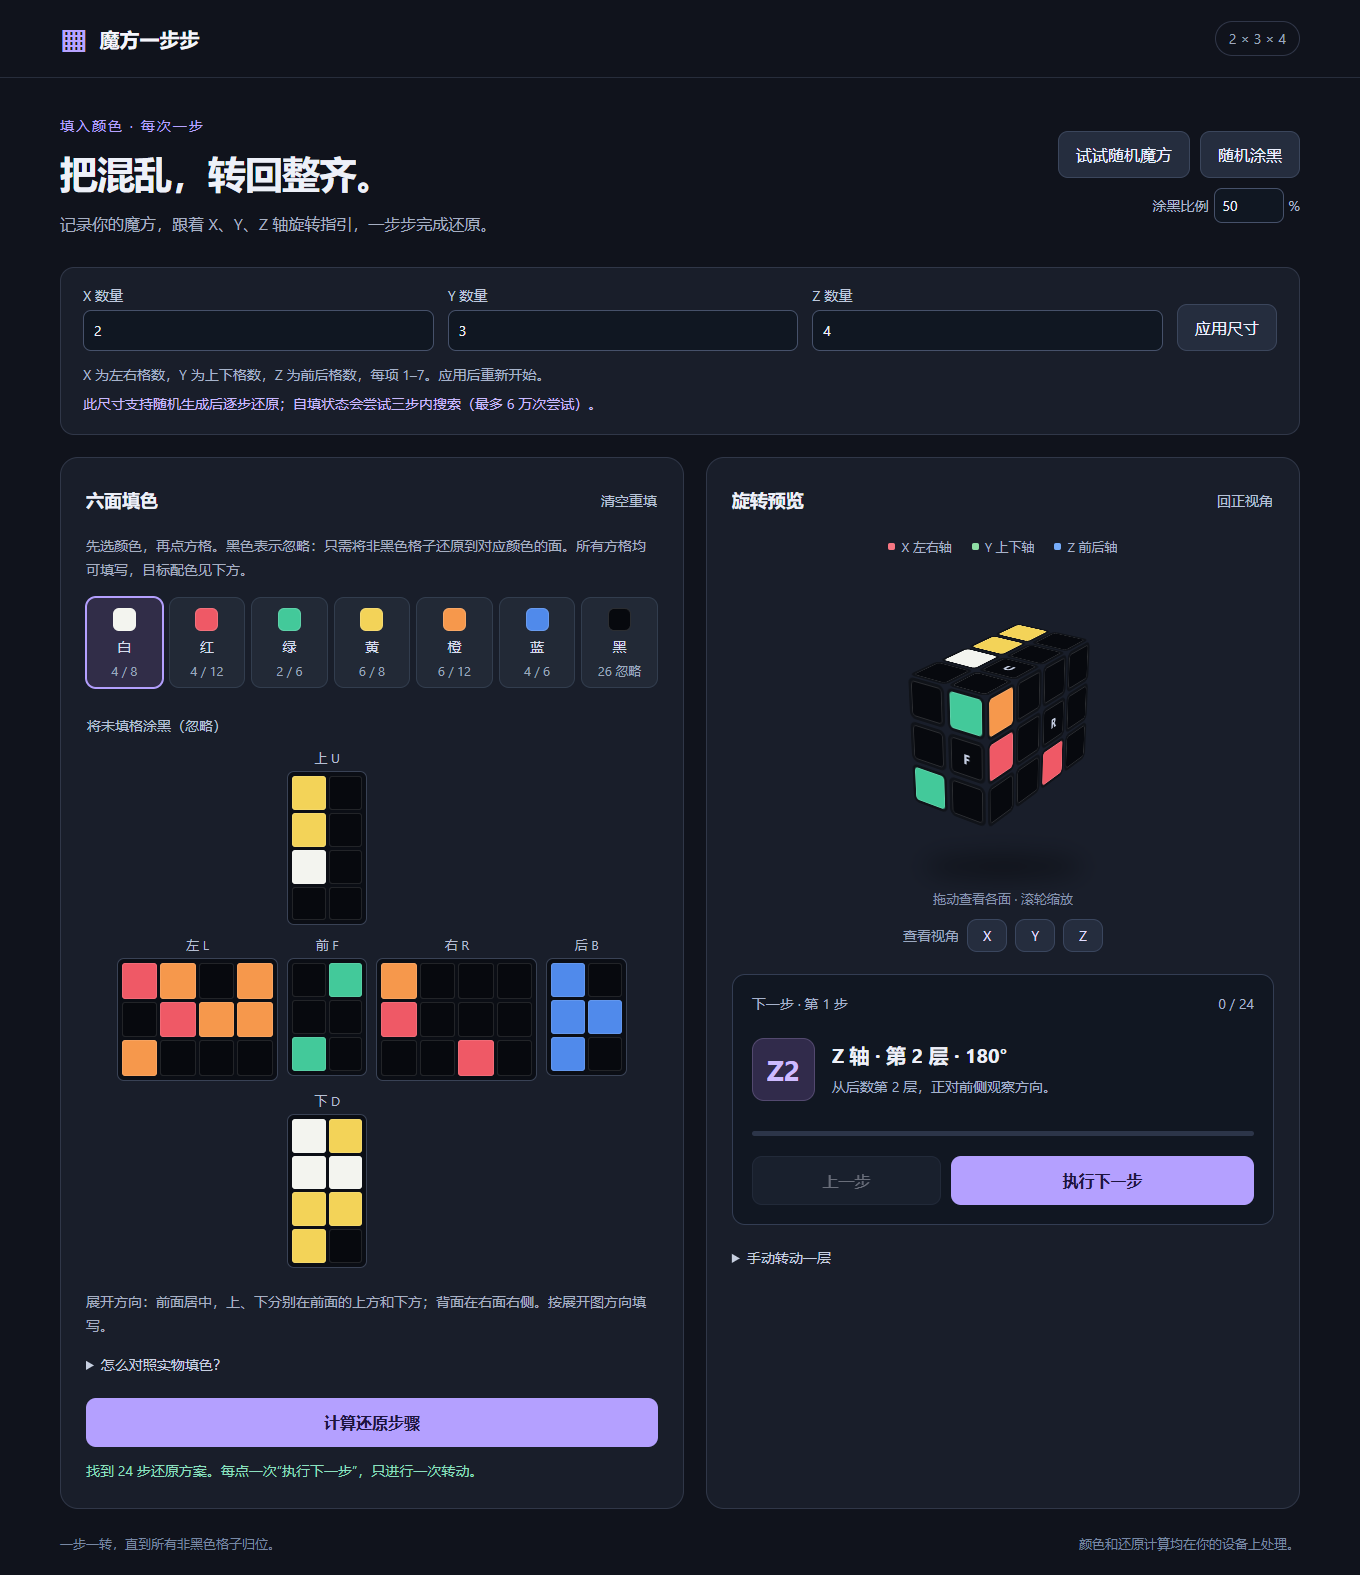
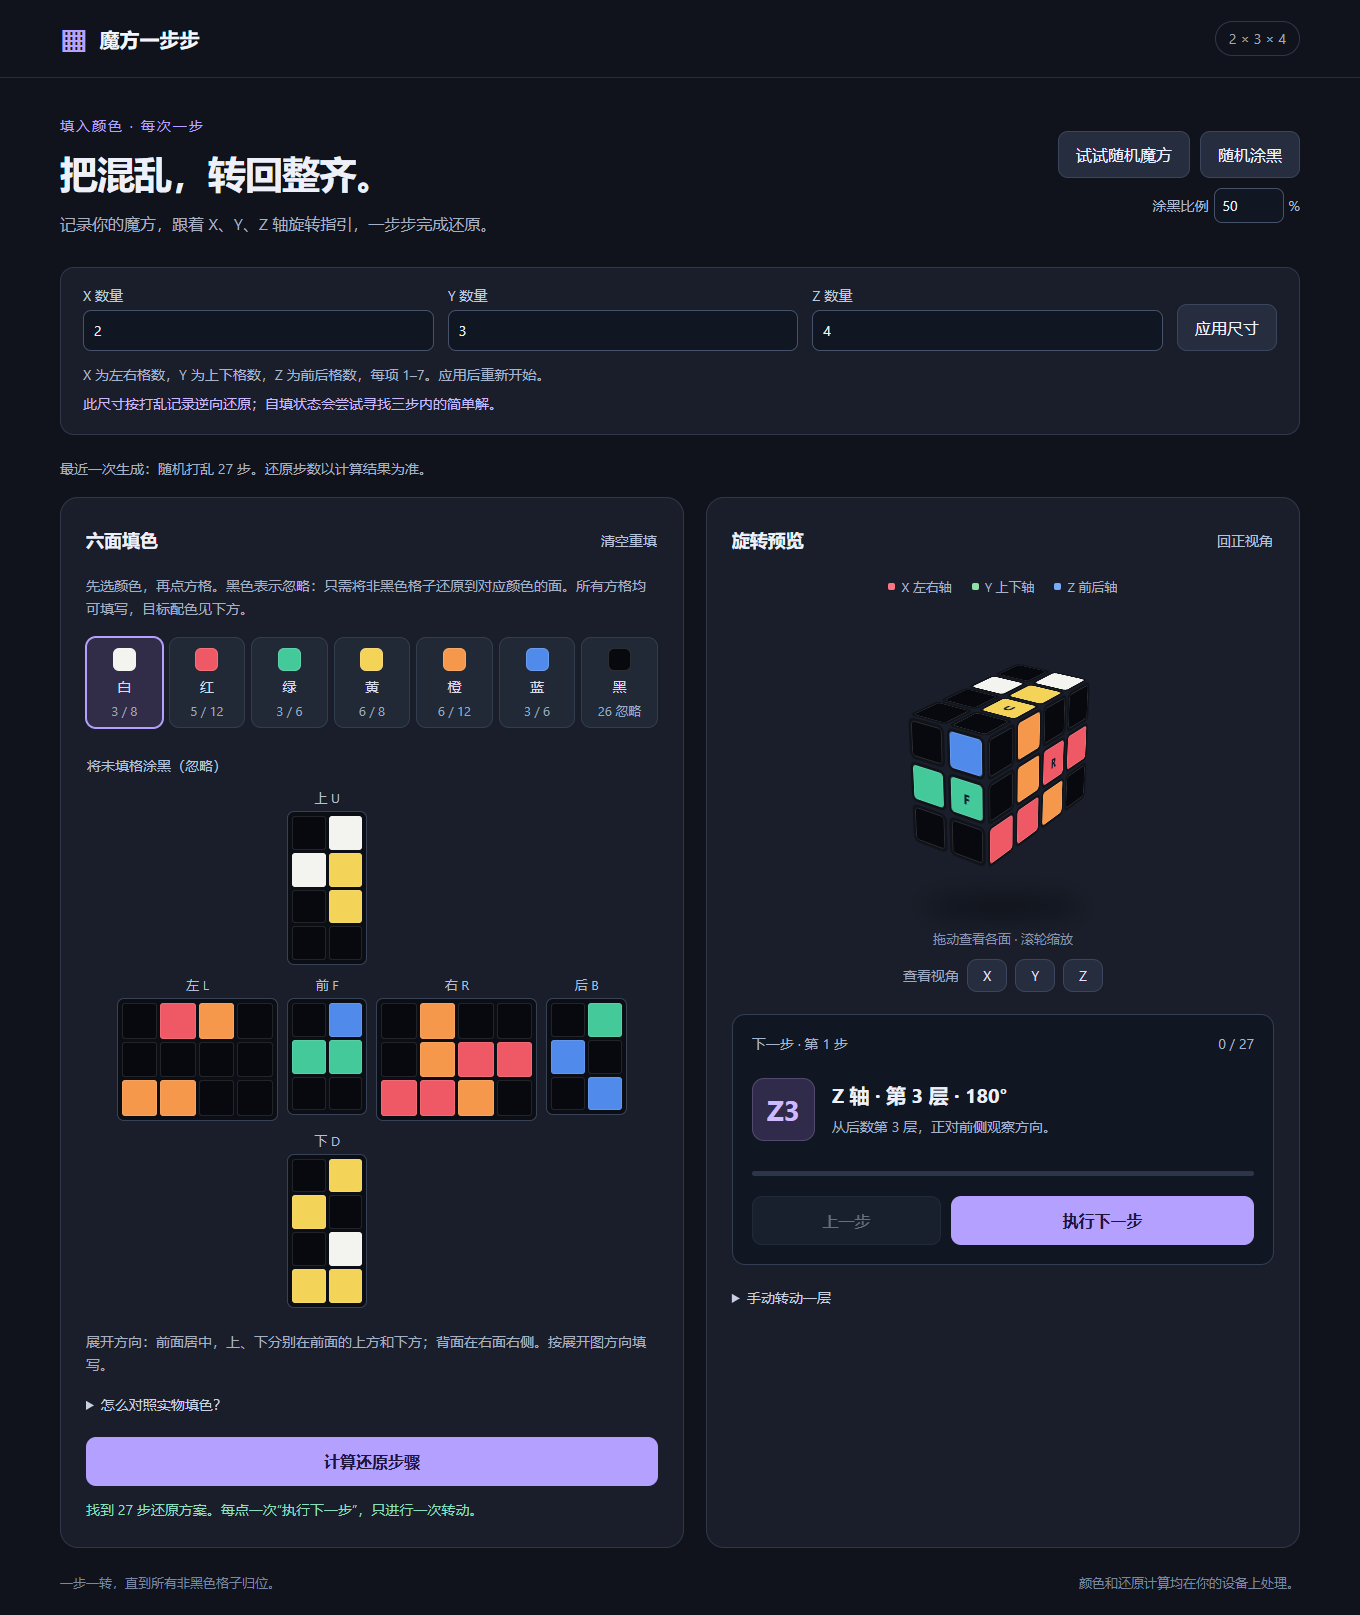
Update Site source

diff --git a/dist/app.js b/dist/app.js
@@ -2,7 +2,7 @@
   const {faces,names,describe,validatePattern}=CubeCore;
   const {CuboidModel}=Cuboid;
   const colors={w:{name:'白',hex:'#f3f4ef'},r:{name:'红',hex:'#ef5966'},g:{name:'绿',hex:'#43c99a'},y:{name:'黄',hex:'#f3d358'},o:{name:'橙',hex:'#f6984c'},b:{name:'蓝',hex:'#508aeb'},k:{name:'黑',hex:'#07090e'}};
-  let model=new CuboidModel(),centers=['w','r','g','y','o','b'],stickers=[],selected='w',history=[];
+  let model=new CuboidModel(),centers=['w','r','g','y','o','b'],stickers=[],selected='w',history=[],scrambleCount=null;
   let moves=[],cursor=0,hasPlan=false,busy=false,animating=false,worker=null,job=0,timer=null;
   let view={x:-25,y:-35,z:0,scale:1};
   const $=id=>document.getElementById(id),cubeEl=$('cube'),net=$('net');
@@ -11,13 +11,14 @@
   function encoded(){return stickers.map(c=>c==='k'?'*':faces[centers.indexOf(c)]||'?').join('');}
   function fromPattern(text){stickers=[...text].map(c=>c==='*'?'k':faceColor(c));}
   fromPattern(model.solved);
-  function save(){try{localStorage.setItem('cube-step-v1',JSON.stringify({centers,stickers,dimensions:model.dims,history,blackPercent:Number($('black-percent').value)}));}catch{}}
+  function save(){try{localStorage.setItem('cube-step-v1',JSON.stringify({centers,stickers,dimensions:model.dims,history,scrambleCount,blackPercent:Number($('black-percent').value)}));}catch{}}
   try{
     const v=JSON.parse(localStorage.getItem('cube-step-v1'));
     if(v){const candidate=new CuboidModel(v.dimensions||[3,3,3]);
       if(v.centers?.length===6&&new Set(v.centers).size===6&&v.centers.every(c=>colors[c]&&c!=='k')&&v.stickers?.length===candidate.cells.length&&v.stickers.every(c=>c===null||colors[c])&&candidate.cells.every((c,i)=>!c.locked||v.stickers[i]===v.centers[faces.indexOf(c.face)])){
         model=candidate;centers=v.centers;stickers=v.stickers;history=null;
         if(Array.isArray(v.history)&&model.knownSolution(encoded(),v.history)!==null)history=v.history;
+        if(Number.isInteger(v.scrambleCount)&&v.scrambleCount>=0&&v.scrambleCount<=2000)scrambleCount=v.scrambleCount;
         if(Number.isInteger(v.blackPercent)&&v.blackPercent>=0&&v.blackPercent<=100)$('black-percent').value=v.blackPercent;
       }
     }
@@ -72,6 +73,7 @@
   function applyView(){cubeEl.style.transform=`rotateX(${view.x}deg) rotateY(${view.y}deg) rotateZ(${view.z}deg) scale(${view.scale})`;}
   function moveInfo(move){return typeof move==='string'?{...describe(move),token:move}:model.describe(move);}
   function updateSteps(){
+    $('scramble-info').textContent=scrambleCount===null?'每次随机生成时，转法和打乱步数都会随机。':`最近一次生成：随机打乱 ${scrambleCount} 步。还原步数以计算结果为准。`;
     const complete=hasPlan&&cursor===moves.length;
     $('step-label').textContent=hasPlan?(complete?'还原完成':`下一步 · 第 ${cursor+1} 步`):'等待计算';$('step-count').textContent=`${cursor} / ${moves.length}`;
     const info=hasPlan&&!complete?moveInfo(moves[cursor]):null;$('move-token').textContent=complete?'✓':info?.token||'—';
@@ -99,18 +101,18 @@
   }
   function renderSize(){
     model.dims.forEach((n,i)=>$('size-'+['x','y','z'][i]).value=n);$('size-tag').textContent=model.dims.join(' × ');
-    $('solver-scope').textContent=model.classic||model.pocket?'二阶、三阶支持任意合法填色求解。':'此尺寸支持随机生成后逐步还原；自填状态会尝试寻找三步内的简单解。';
+    $('solver-scope').textContent=model.classic||model.pocket?'二阶、三阶支持任意合法填色求解。':'此尺寸按打乱记录逆向还原；自填状态会尝试寻找三步内的简单解。';
     $('paint-hint').textContent='先选颜色，再点方格。黑色表示忽略：只需将非黑色格子还原到对应颜色的面。'+(model.classic?'中心格固定。':'所有方格均可填写，目标配色见下方。');renderManual();
   }
   $('apply-size').onclick=()=>{
     let next;try{next=new CuboidModel(['x','y','z'].map(a=>Number($('size-'+a).value)));}catch(e){status(e.message,'error');return;}
-    model=next;history=[];fromPattern(model.solved);invalidate();renderSize();renderAll();status(`已应用 ${model.dims.join(' × ')}，可以随机打乱或填写颜色。`);
+    model=next;history=[];scrambleCount=null;fromPattern(model.solved);invalidate();renderSize();renderAll();status(`已应用 ${model.dims.join(' × ')}，可以随机打乱或填写颜色。`);
   };
   $('manual-axis').onchange=renderManual;
   $('demo').onclick=()=>{
-    if(model.classic){const c=new Cube();let last='';for(let i=0;i<22;i++){let f;do{f=faces[Math.floor(Math.random()*6)];}while(f===last);last=f;c.move(f+['',"'",'2'][Math.floor(Math.random()*3)]);}fromPattern(c.asString());history=null;}
-    else{const result=model.scramble();fromPattern(result.state);history=result.moves;}
-    invalidate();renderAll();status('已生成合法的随机魔方。可再点“随机涂黑”，然后计算还原步骤。');
+    if(model.classic){scrambleCount=model.randomScrambleLength();const c=new Cube();let last='';for(let i=0;i<scrambleCount;i++){let f;do{f=faces[Math.floor(Math.random()*6)];}while(f===last);last=f;c.move(f+['',"'",'2'][Math.floor(Math.random()*3)]);}fromPattern(c.asString());history=null;}
+    else{const result=model.scramble();fromPattern(result.state);history=result.moves;scrambleCount=result.moves.length;}
+    invalidate();renderAll();status(`本次随机打乱 ${scrambleCount} 步。可再点“随机涂黑”，然后计算还原步骤。`);
   };
   $('random-black').onclick=()=>{
     const percent=Number($('black-percent').value);if($('black-percent').value.trim()===''||!Number.isInteger(percent)||percent<0||percent>100){status('涂黑比例必须是 0 到 100 的整数。','error');return;}
@@ -120,7 +122,7 @@
     invalidate();renderAll();status(`随机选取 ${count} 格，本次新增 ${added} 个黑格；其余颜色保留。`);
   };
   $('black-percent').onchange=save;
-  $('clear').onclick=()=>{stickers=model.cells.map(g=>g.locked?faceColor(g.face):null);history=null;invalidate();renderAll();status(model.classic?'已保留六个中心。请选择画笔，填写其他 48 格。':'已清空方格。可填写颜色，或将未填格涂黑。');};
+  $('clear').onclick=()=>{stickers=model.cells.map(g=>g.locked?faceColor(g.face):null);history=null;scrambleCount=null;invalidate();renderAll();status(model.classic?'已保留六个中心。请选择画笔，填写其他 48 格。':'已清空方格。可填写颜色，或将未填格涂黑。');};
   $('mask-empty').onclick=()=>{stickers=stickers.map(c=>c===null?'k':c);invalidate();renderAll();status('未填格已涂黑；计算时只要求非黑色格子归位。');};
   function finishSolve(){clearTimeout(timer);timer=null;busy=false;renderPalette();renderNet();updateSteps();}
   function workerError(message){finishSolve();worker?.terminate();worker=null;status(message,'error');}
@@ -130,7 +132,7 @@
     if(location.protocol==='file:'){status('请通过本地启动器或网站打开，浏览器直接打开文件不支持后台求解。','error');return;}
     busy=true;renderPalette();renderNet();updateSteps();status('正在计算还原步骤…');const id=++job;
     try{
-      if(!worker){worker=new Worker('solver-worker.js?v=size1');worker.onmessage=({data})=>{
+      if(!worker){worker=new Worker('solver-worker.js?v=random2');worker.onmessage=({data})=>{
         if(data.id!==job)return;if(data.kind==='progress'){status(data.message);return;}if(data.kind==='error'){workerError(data.message);return;}
         moves=data.moves;cursor=0;hasPlan=true;finishSolve();status(`找到 ${moves.length} 步还原方案。每点一次“执行下一步”，只进行一次转动。`,'success');
       };worker.onerror=()=>workerError('求解器加载失败，请刷新后重试。');}

diff --git a/dist/index.html b/dist/index.html
@@ -9,14 +9,15 @@
   <link rel="stylesheet" href="style.css?v=size1">
   <script src="vendor/cube.js" defer></script>
   <script src="core.js?v=black1" defer></script>
-  <script src="cuboid.js?v=size1" defer></script>
-  <script src="app.js?v=size1" defer></script>
+  <script src="cuboid.js?v=random2" defer></script>
+  <script src="app.js?v=random2" defer></script>
 </head>
 <body>
   <header class="topbar"><a class="brand" href="./"><span class="brand-mark">▦</span>魔方一步步</a><span id="size-tag" class="tag">3 × 3 × 3</span></header>
   <main>
     <section class="intro"><div><p class="eyebrow">填入颜色 · 每次一步</p><h1>把混乱，转回整齐。</h1><p class="subtitle">记录你的魔方，跟着 X、Y、Z 轴旋转指引，一步步完成还原。</p></div><div class="random-actions"><button id="demo" class="secondary">试试随机魔方</button><button id="random-black" class="secondary">随机涂黑</button><label class="black-ratio">涂黑比例 <input id="black-percent" type="number" min="0" max="100" step="1" value="40" aria-label="随机涂黑百分比"> %</label></div></section>
     <section class="size-panel" aria-label="魔方尺寸设置"><div class="size-fields"><label>X 数量<input id="size-x" type="number" min="1" max="7" step="1" value="3"></label><label>Y 数量<input id="size-y" type="number" min="1" max="7" step="1" value="3"></label><label>Z 数量<input id="size-z" type="number" min="1" max="7" step="1" value="3"></label><button id="apply-size" class="secondary">应用尺寸</button></div><p id="size-hint">X 为左右格数，Y 为上下格数，Z 为前后格数，每项 1–7。应用后重新开始。</p><p id="solver-scope">三阶支持任意合法填色求解。</p></section>
+    <p id="scramble-info" class="hint" role="status">每次随机生成时，转法和打乱步数都会随机。</p>
     <div class="workspace">
       <section class="panel input-panel" aria-labelledby="input-title">
         <div class="panel-heading"><h2 id="input-title">六面填色</h2><button id="clear" class="text-button">清空重填</button></div>

diff --git a/dist/cuboid.js b/dist/cuboid.js
@@ -59,7 +59,13 @@
       for(const f of faces)if([...text].filter(c=>c===f).length>[...this.solved].filter(c=>c===f).length)throw Error('颜色数量超过当前尺寸对应的面格数，请检查填色。');
     }
     legalMoves(){const out=[];for(const axis of ['X','Y','Z'])for(let layer=0;layer<this.dims[this.axisIndex(axis)];layer++)for(const turns of this.square(axis)?[1,-1,2]:[2])out.push({axis,layer,turns});return out;}
-    scramble(count=24,random=Math.random){
+    randomScrambleLength(random=Math.random){
+      const size=Math.max(...this.dims),min=Math.max(12,size*4),max=Math.max(24,size*8);
+      return min+Math.floor(random()*(max-min+1));
+    }
+    scramble(count,random=Math.random){
+      if(count===undefined)count=this.randomScrambleLength(random);
+      if(!Number.isInteger(count)||count<0||count>2000)throw Error('打乱步数必须是 0 到 2000 的整数。');
       const possible=this.legalMoves(),moves=[];let state=this.solved,last='';
       for(let i=0;i<count;i++){
         const choices=possible.filter(m=>m.axis+':'+m.layer!==last),m=choices[Math.floor(random()*choices.length)];

diff --git a/dist/solver-worker.js b/dist/solver-worker.js
@@ -1,5 +1,5 @@
 importScripts('vendor/cube.js', 'vendor/solve.js', 'core.js?v=black1');
-importScripts('cuboid.js?v=size1');
+importScripts('cuboid.js?v=random2');
 let initialized=false;
 self.onmessage=event=>{
   const {text,id,dimensions=[3,3,3],history}=event.data;

diff --git a/README.md b/README.md
@@ -4,6 +4,8 @@
 
 “试试随机魔方”生成可还原状态；“随机涂黑”按指定百分比随机选取已填、可编辑的格子并涂黑。保留其他颜色和三阶固定中心，重复点击可能增加黑格。涂黑比例支持 0–100%。应用新尺寸会重新开始。
 
+随机打乱的长度也会随机：设最大边长为 n，长度在 max(12, 4n) 到 max(24, 8n) 之间随机取整数。七阶为 28–56 步，不再固定 24 步。页面显示实际打乱长度并随当前状态保存。还原方案长度以验证结果为准，黑色目标可能提前完成；不保证最短。连续两次随机长度可能恰好相同。
+
 黑色是“忽略”标记：黑格随所在层一起转动，但不参与完成判断。只要其余非黑色格子都在对应中心颜色的面上，就完成还原。黑色格数不限，不能设为中心色。可用“将未填格涂黑”快速输入局部目标。
 
 二阶、三阶支持任意合法填色求解，包括黑色忽略状态。三阶局部状态先寻找三步内的解；否则补出合法状态并求解。二阶将角块嵌入三阶角块模型求解。方案会在非黑色目标首次达成时结束，不保证最短。
